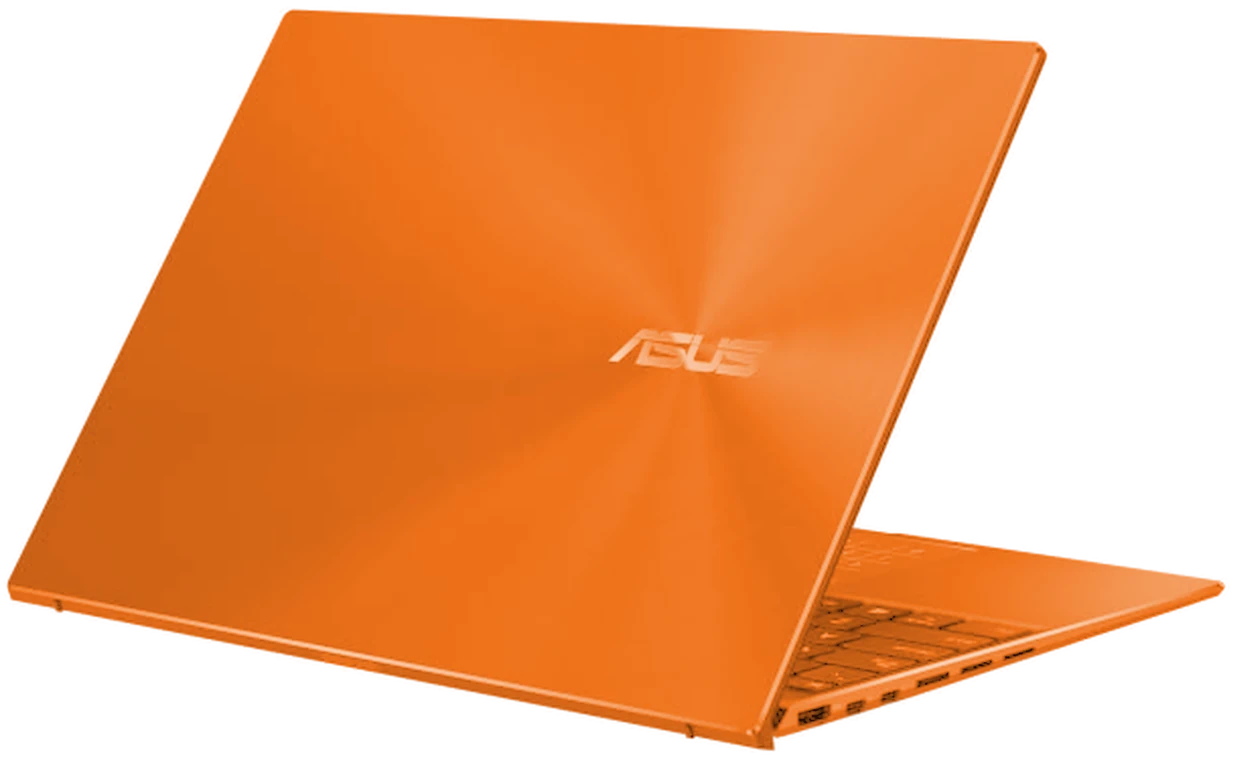
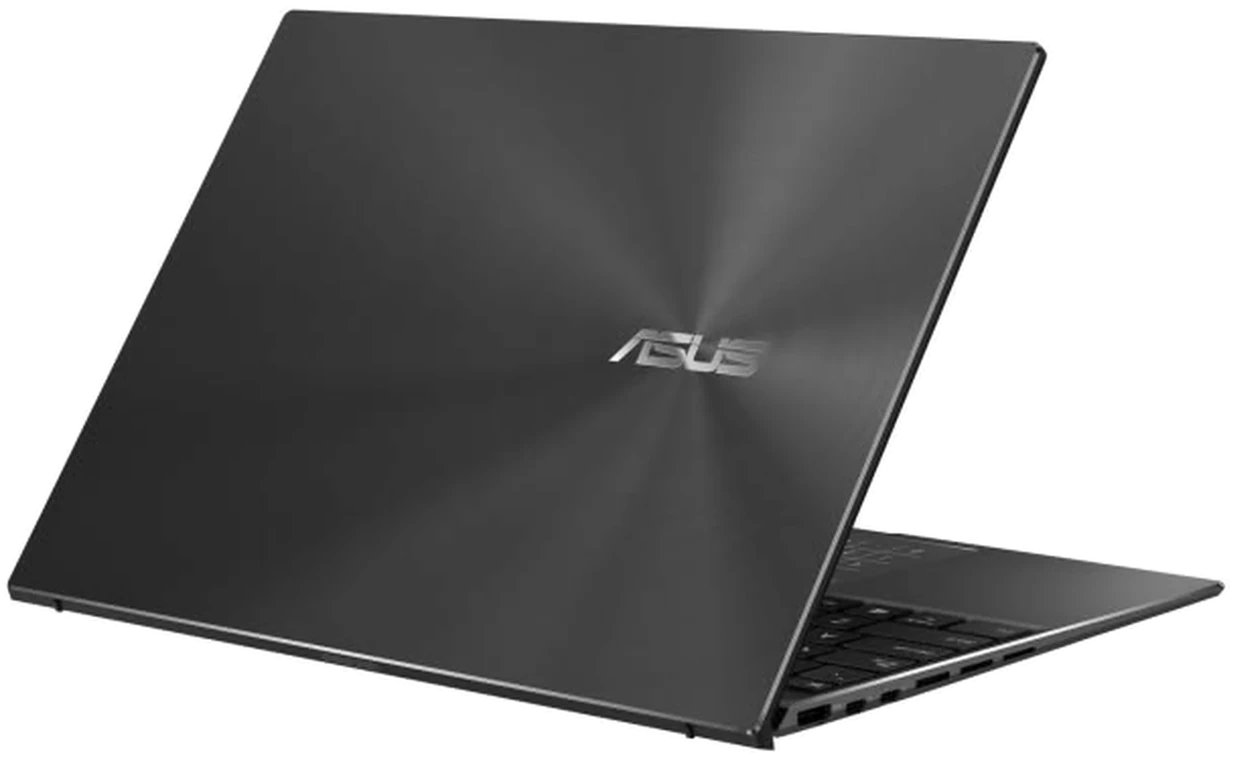
Laptops: restore original laptop colours; card background now matches each laptop's colour

diff --git a/gdtech/src/collections.css b/gdtech/src/collections.css
@@ -34,6 +34,13 @@
 .k-card.slate { --card: #52688a; --glow: #8fa8cb; }
 .k-card.cream { --card: #e4dcc8; --glow: #fbf7ec; --ink: #17171a; --sub: rgba(23, 23, 26, 0.6); }
 .k-card.plum { --card: #7b2955; --glow: #d9739f; }
+/* Laptop cards take the colour of their laptop */
+.k-card.steel { --card: #7f8fa3; --glow: #c3cfdd; }
+.k-card.silver { --card: #85878d; --glow: #babcc3; }
+.k-card.graphite { --card: #26272b; --glow: #5d6069; }
+.k-card.pewter { --card: #6e7178; --glow: #a6a9b0; }
+.k-card.navy { --card: #1f2f45; --glow: #4a6a9c; }
+.k-card.onyx { --card: #0e0e10; --glow: rgba(176, 64, 255, 0.5); }
 .k-card.ink { --card: #0b0b0c; --glow: rgba(255, 122, 26, 0.55); }
 @keyframes k-in { from { opacity: 0; transform: translateY(14px) scale(0.96); } }
 
@@ -60,7 +67,7 @@
 /* Arrow button: solid */
 .k-go { position: absolute; right: 12px; bottom: 12px; z-index: 3; width: 36px; height: 36px; border-radius: 50%; display: grid; place-items: center; background: var(--black); color: var(--orange); }
 .k-go svg { width: 15px; height: 15px; }
-.ink .k-go { background: var(--orange); color: var(--black); }
+.ink .k-go, .onyx .k-go { background: var(--orange); color: var(--black); }
 
 /* A lone last card is wide: art sits to the right, text to the left */
 .k-card:last-child:nth-child(odd) { min-height: 150px; }

diff --git a/gdtech/src/collections.js b/gdtech/src/collections.js
@@ -31,8 +31,8 @@ const TONES = ["orange", "slate", "cream", "ink"];
 const TONE_OF = {
   "mobile:itel": "plum",
   // Laptops: light silver ones sit on dark cards, dark ones on light cards
-  "laptops:Apple": "ink", "laptops:Dell": "slate", "laptops:HP": "cream",
-  "laptops:Lenovo": "orange", "laptops:Asus": "orange", "laptops:Samsung": "plum",
+  "laptops:Apple": "silver", "laptops:Dell": "pewter", "laptops:HP": "navy",
+  "laptops:Lenovo": "onyx", "laptops:Asus": "graphite", "laptops:Samsung": "steel",
 };
 
 const tabsEl = $("col-tabs");
